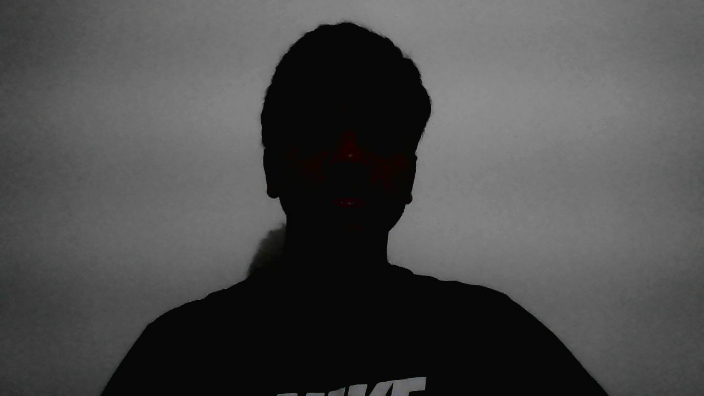
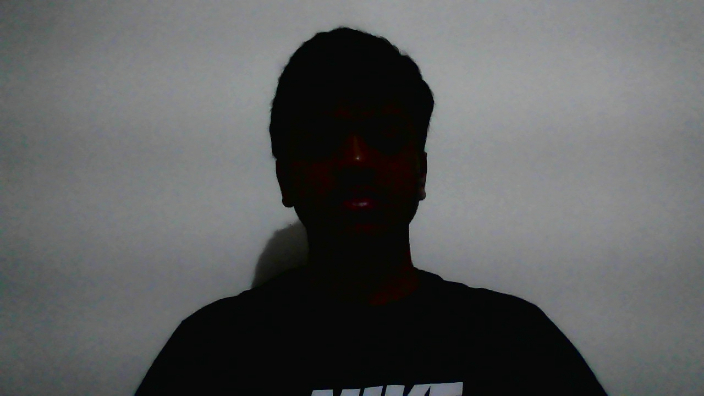
Phase 2/3: calibration, color detection, solver

diff --git a/solver/face_scan.py b/solver/face_scan.py
@@ -1,0 +1,21 @@
+import numpy as np
+import cv2
+from PIL import Image
+from solver.colors import classify
+
+def scan_face(img_file):
+    rgb = np.array(Image.open(img_file).convert("RGB"))
+    h, w, _ = rgb.shape
+    size = min(h, w)
+    y0, x0 = (h - size) // 2, (w - size) // 2
+    crop = cv2.resize(rgb[y0:y0+size, x0:x0+size], (300, 300))
+    hsv = cv2.cvtColor(crop, cv2.COLOR_RGB2HSV)
+
+    labels = []
+    for row in range(3):
+        for col in range(3):
+            cy, cx = row * 100 + 50, col * 100 + 50
+            patch = hsv[cy-10:cy+10, cx-10:cx+10].reshape(-1, 3)
+            hh, ss, vv = patch.mean(axis=0)
+            labels.append(classify(hh, ss, vv))
+    return labels, crop

diff --git a/solver/colors.py b/solver/colors.py
@@ -1,0 +1,15 @@
+RANGES = {
+    "white":  [((0, 0, 180), (179, 40, 255))],
+    "yellow": [((20, 80, 80), (35, 255, 255))],
+    "red":    [((0, 100, 80), (8, 255, 255)), ((170, 100, 80), (179, 255, 255))],
+    "orange": [((9, 120, 120), (19, 255, 255))],
+    "green":  [((40, 60, 60), (80, 255, 255))],
+    "blue":   [((90, 60, 60), (130, 255, 255))],
+}
+
+def classify(h, s, v):
+    for name, ranges in RANGES.items():
+        for lo, hi in ranges:
+            if lo[0] <= h <= hi[0] and lo[1] <= s <= hi[1] and lo[2] <= v <= hi[2]:
+                return name
+    return "unknown"

diff --git a/app.py b/app.py
@@ -1,10 +1,10 @@
 import streamlit as st
+from solver.face_scan import scan_face
 
 st.title("Rubik's Solver")
-img = st.camera_input("Show a cube face")
+img_file = st.camera_input("Show a cube face")
 
-if img is not None:
-    with open("capture.jpg", "wb") as f:
-        f.write(img.getbuffer())
-    st.image(img)
-    st.success("Saved!")
+if img_file:
+    labels, crop = scan_face(img_file)
+    st.image(crop, width=200)
+    st.write(labels)
